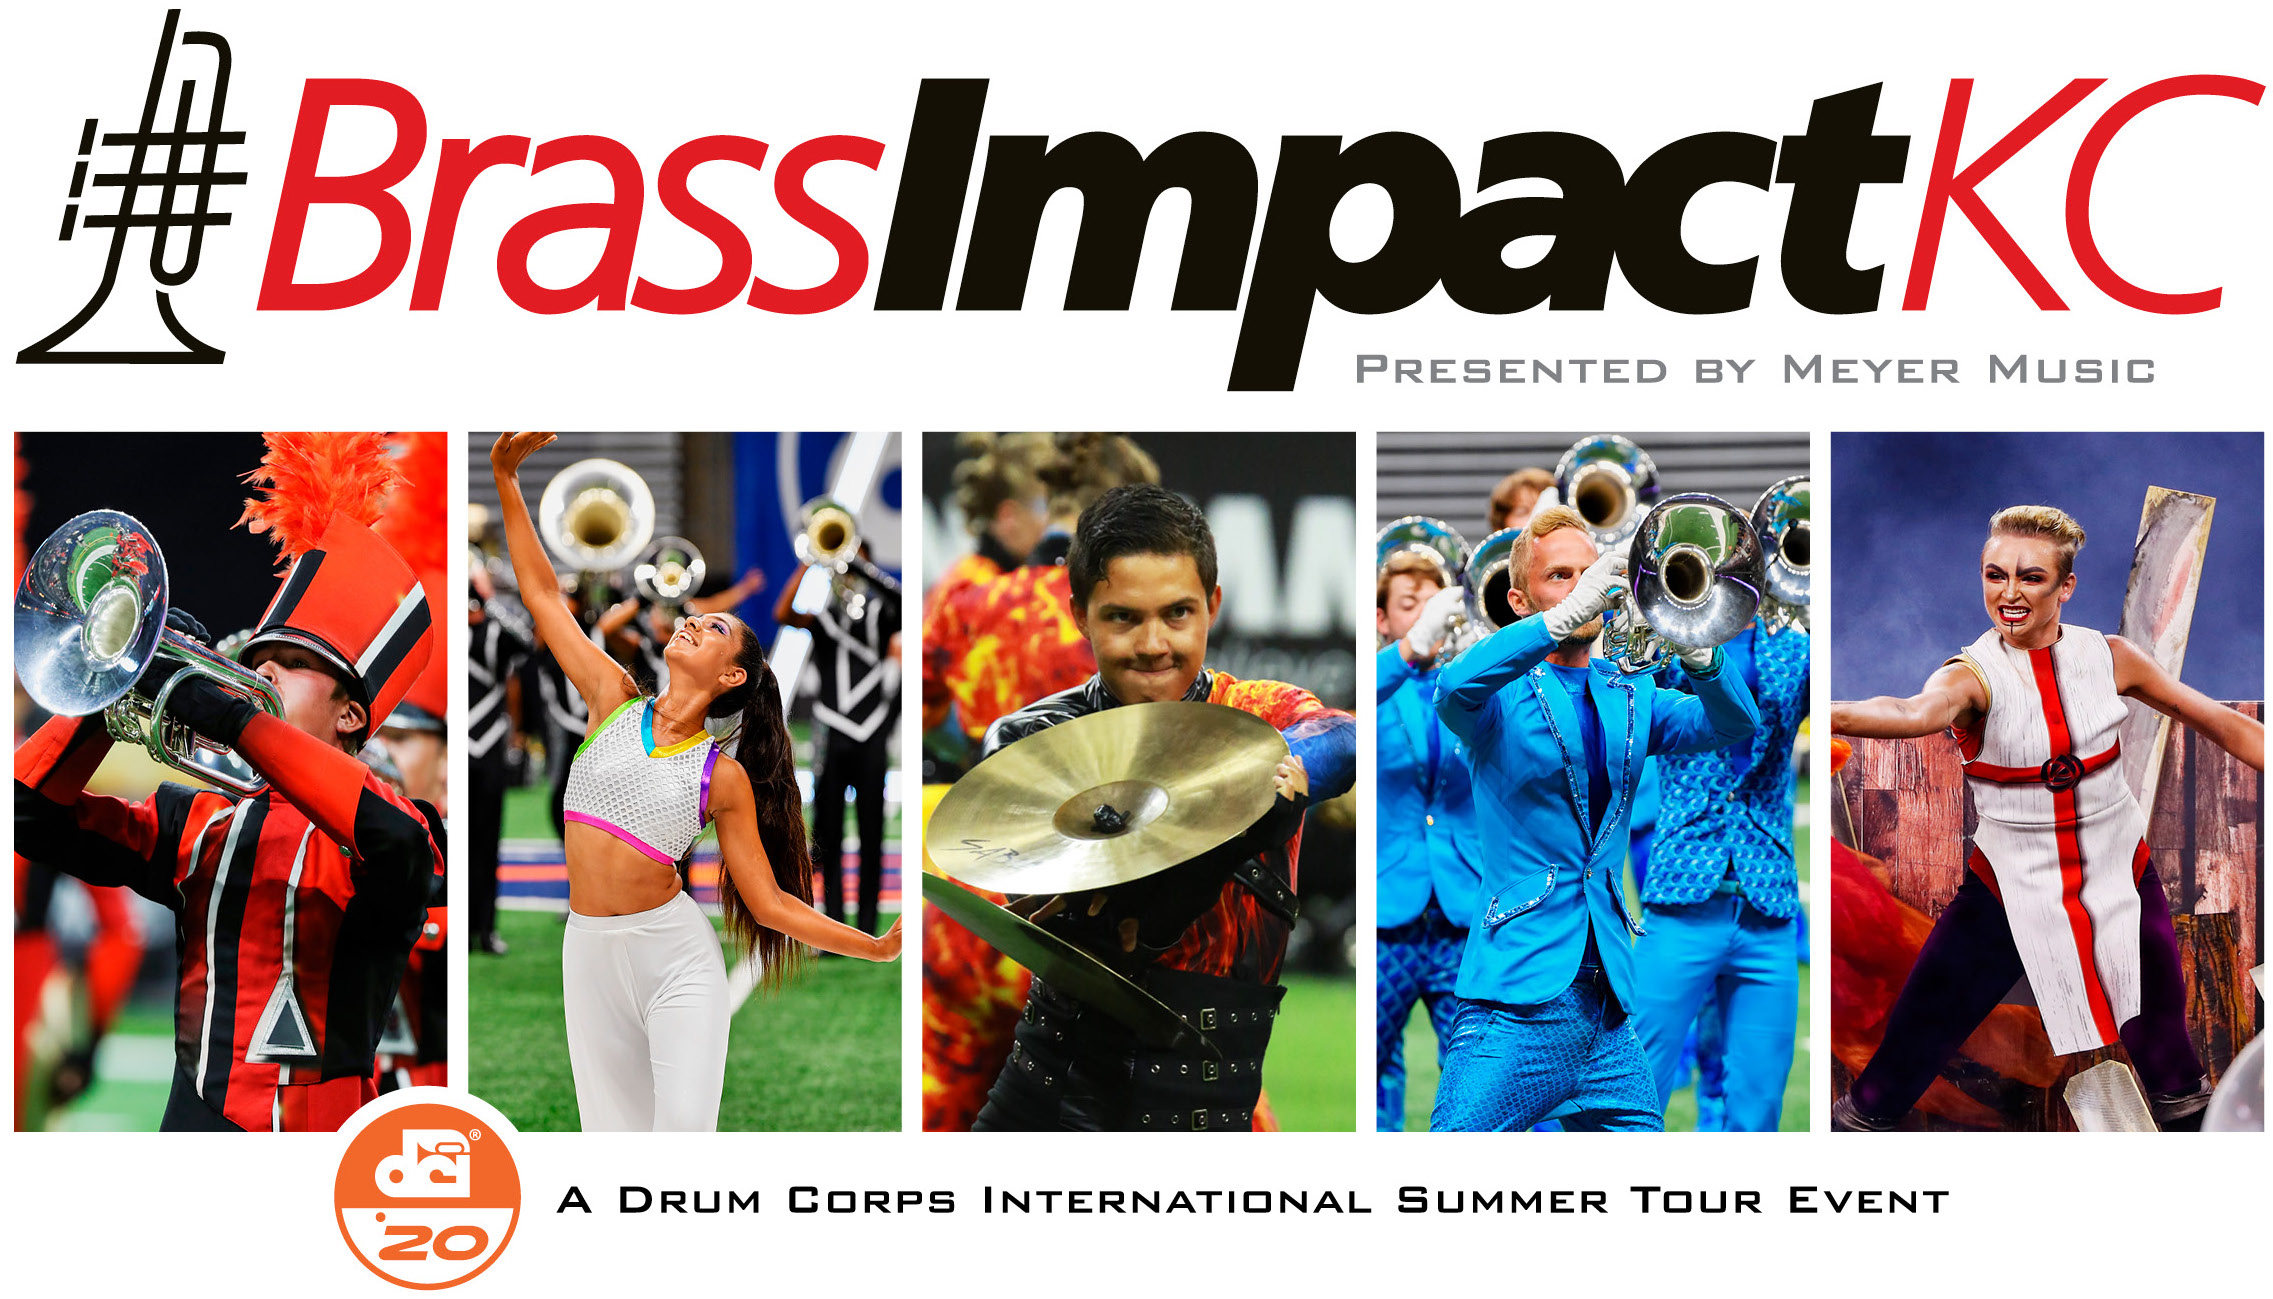
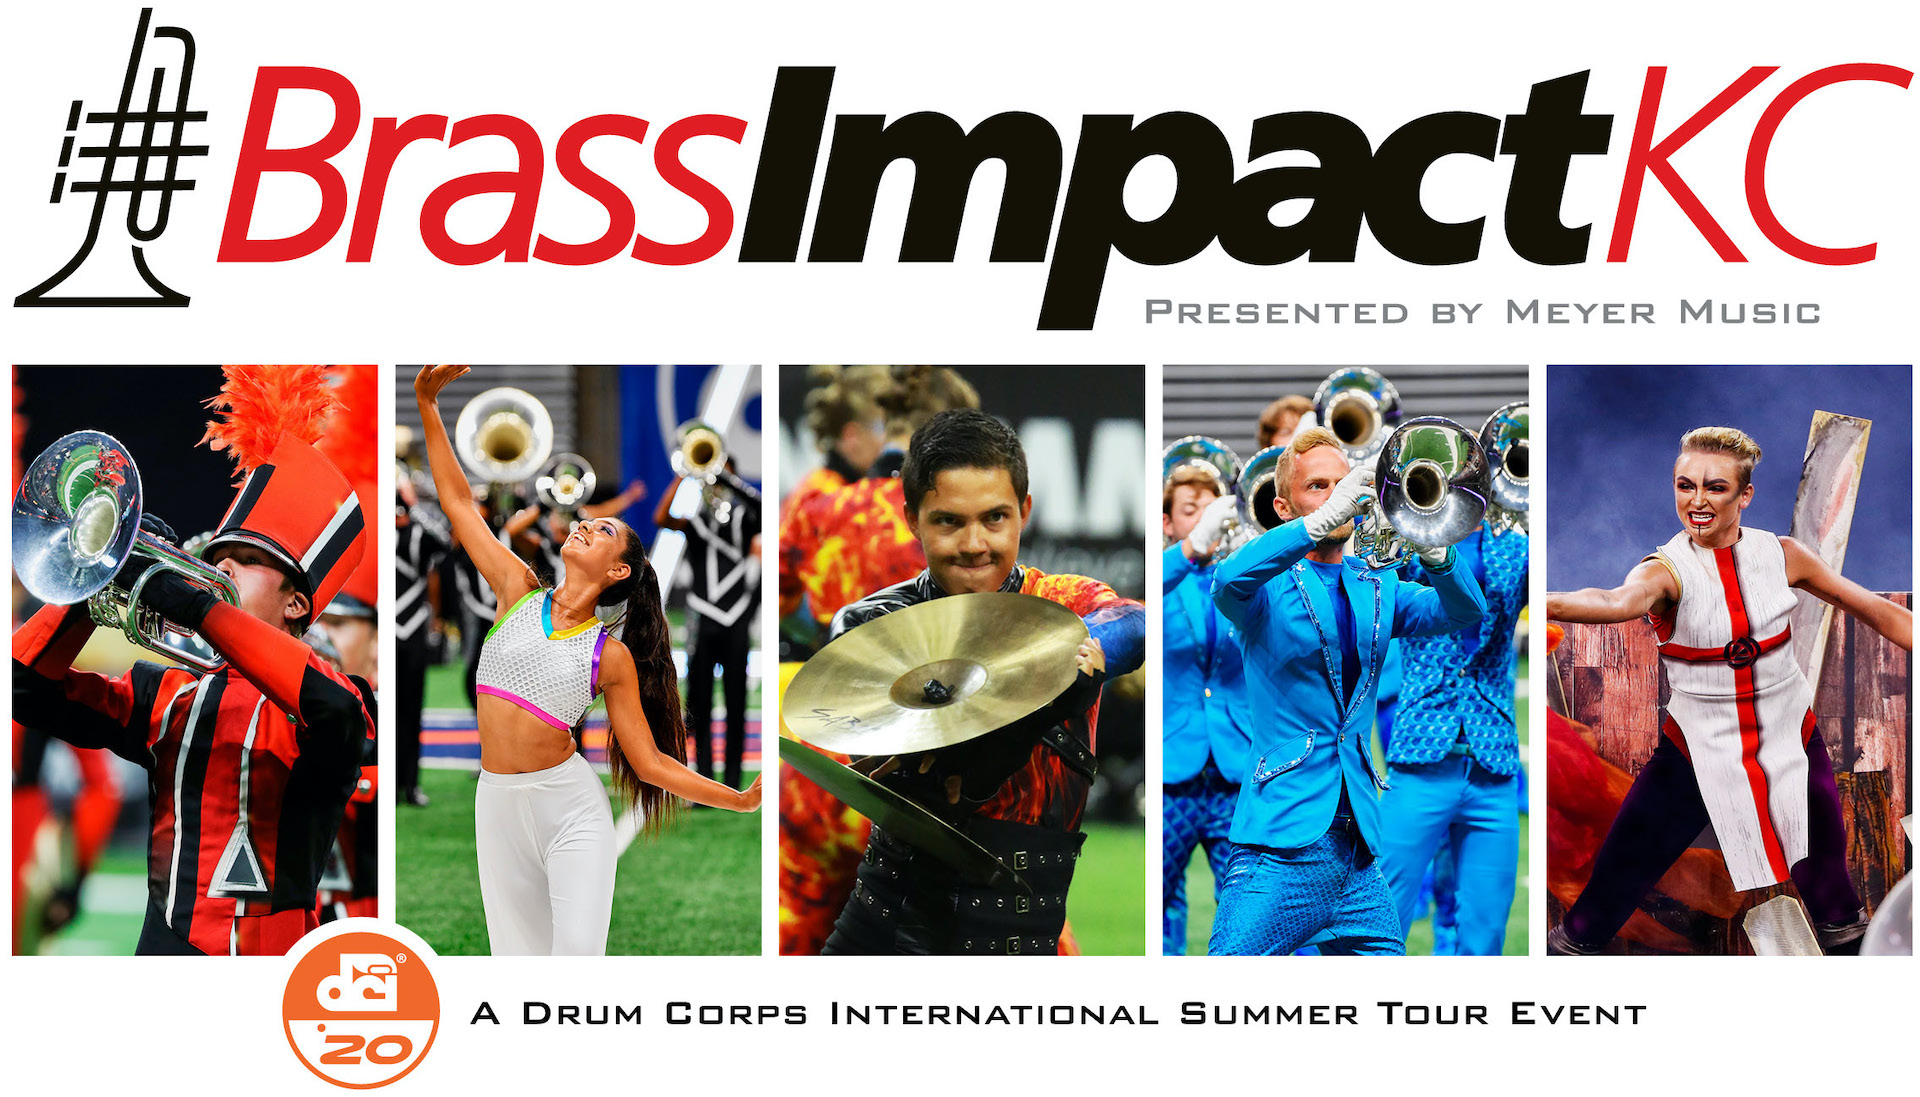
brass-impact.html

diff --git a/brass-impact.html b/brass-impact.html
@@ -162,7 +162,13 @@
         <!-- Show graphic -->
         <div class="row pb-3 px-md-3 px-lg-5 justify-content-center">
           <div class="col-xs-12 col-md-10 col-lg-8">
-            <img src="/img/BrassImpact_WebHeader20.jpg" class="mx-auto d-block w-100 h-auto" width="100%" alt="Brass Impact, Presented by Meyer Music" />
+            <img
+              src="/img/BrassImpact_WebHeader20.jpg"
+              class="mx-auto d-block w-100 h-auto"
+              width="1920"
+              height="1097"
+              alt="Brass Impact, Presented by Meyer Music"
+            />
           </div>
         </div>
         <!-- End show graphic -->
